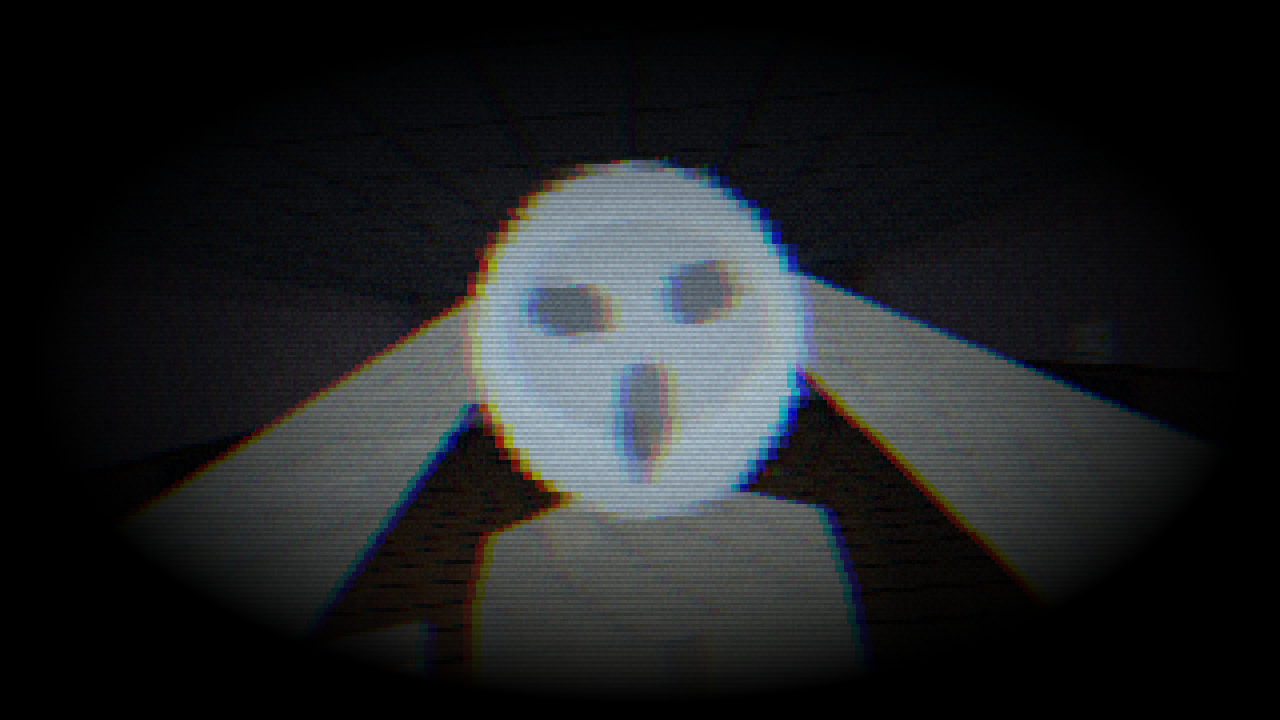
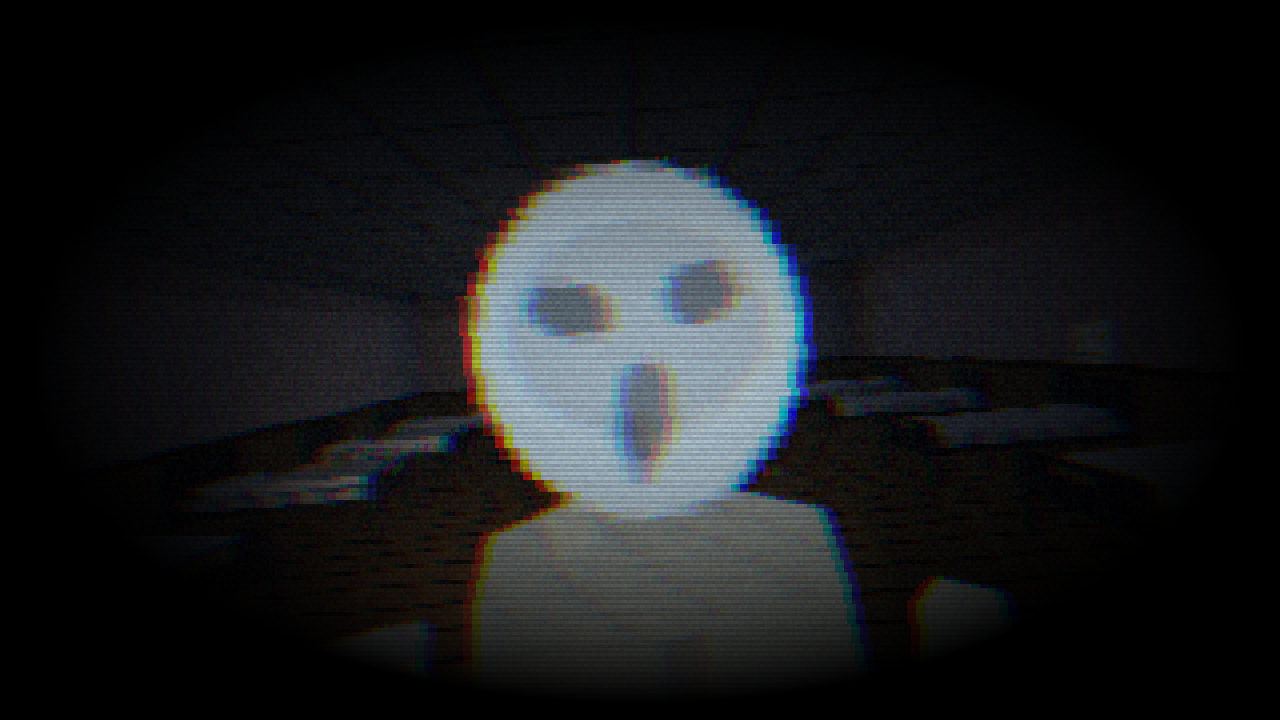
Collapse jump scare when a vision is near (0.1.61)
Claude-Session: https://claude.ai/code/session_01Kt2ajWcwzg7QhP3mDk3ZUu

Changed region(s): [[0.5938, 0.3667, 0.9062, 0.8861], [0.125, 0.3972, 0.4062, 0.8556]]

diff --git a/src/sanity/collapse.js b/src/sanity/collapse.js
@@ -2,13 +2,39 @@
 // falls, then the tape rewinds — tearing picture, "◀◀ REW", counter running
 // backwards — and the player wakes at the last checkpoint while a child
 // whispers what went wrong. Death is short and teaches (scare rules §7).
+// With a presence in view or close (game.presences: a vision now, enemies
+// later), it lunges into the face first (approved still collapse_scare).
+// The scare only goes with a collapse that is already happening; comfort
+// mode skips it.
+import * as THREE from 'three';
+import { PROPS } from '../props/catalog.js';
 
+const LUNGE = 0.45; // seconds
+const LUNGE_FROM = 1.3; // metres in front of the eyes
+const LUNGE_TO = 0.35;
+const FACE_HEIGHT = 1.1; // the lunge prop's face, above its origin
 const FAINT = 1.6; // seconds
 const REWIND = 3;
 const WHISPER = { dark: 'whisper.rewind.dark', default: 'whisper.rewind.dark' };
 
+// True when any registered presence is on screen or within a few metres.
+function presenceNear(game) {
+  const camera = game.world.camera;
+  camera.updateMatrixWorld();
+  const frustum = new THREE.Frustum().setFromProjectionMatrix(
+    new THREE.Matrix4().multiplyMatrices(camera.projectionMatrix, camera.matrixWorldInverse),
+  );
+  return game.presences.some((source) => {
+    const position = source();
+    if (!position) return false;
+    const point = new THREE.Vector3(position.x, 1.1, position.z);
+    return frustum.containsPoint(point) || point.distanceTo(camera.position) < 4;
+  });
+}
+
 export function createCollapse(game) {
-  let phase = null; // null | 'faint' | 'rewind'
+  let phase = null; // null | 'lunge' | 'faint' | 'rewind'
+  let lunge = null;
   let t = 0;
   let cause = 'dark';
   let counterFrom = 0;
@@ -16,11 +42,39 @@ export function createCollapse(game) {
 
   function start(why) {
     if (phase) return;
-    phase = 'faint';
     t = 0;
     cause = why;
     counterFrom = game.session.playTime;
     game.inventory.setOpen(false);
+    const scare = !game.settings.get('comfortMode') && presenceNear(game);
+    if (scare) {
+      phase = 'lunge';
+      lunge = PROPS.ghostLunge(game.world.textures);
+      game.world.scene.add(lunge);
+      game.events.emit('collapse.scare', cause);
+      return;
+    }
+    phase = 'faint';
+    game.events.emit('collapse.started', cause);
+  }
+
+  // The child rushes from arm's length into the face, then the faint begins.
+  function updateLunge() {
+    const camera = game.world.camera;
+    const forward = new THREE.Vector3();
+    camera.getWorldDirection(forward);
+    forward.y = 0;
+    forward.normalize();
+    const k = Math.min(1, t / LUNGE);
+    const distance = LUNGE_FROM - (LUNGE_FROM - LUNGE_TO) * k * k;
+    lunge.position.set(camera.position.x + forward.x * distance, camera.position.y - FACE_HEIGHT, camera.position.z + forward.z * distance);
+    lunge.rotation.y = Math.atan2(-forward.x, -forward.z);
+    game.pipeline.fx.aberration = game.settings.get('reduceEffects') ? 1 : 2.5;
+    if (t < LUNGE) return;
+    lunge.parent?.remove(lunge);
+    lunge = null;
+    phase = 'faint';
+    t = 0;
     game.events.emit('collapse.started', cause);
   }
 
@@ -39,6 +93,7 @@ export function createCollapse(game) {
   function update(dt) {
     if (!phase) return;
     t += dt;
+    if (phase === 'lunge') return updateLunge();
     const fx = game.pipeline.fx;
     if (phase === 'faint') {
       fx.eyelid = Math.min(1, t / FAINT);
@@ -68,6 +123,7 @@ export function createCollapse(game) {
     applyCamera,
     active: () => phase !== null,
     rewinding: () => phase === 'rewind',
+    scaring: () => phase === 'lunge',
     // The tape counter runs backwards during the rewind.
     counter: () => Math.max(0, counterFrom - t * 400),
     rewinds: () => rewinds,

diff --git a/tests/sanity.spec.js b/tests/sanity.spec.js
@@ -147,3 +147,41 @@ test('the journal says how the player feels', async ({ page }) => {
   expect(lines[0]).toMatch(/^How I feel: calm/);
   expect(lines[1]).toMatch(/^How I feel: shaking/); // wraps inside the left page
 });
+
+// Collapse with a vision in view: the lunge first, then the usual faint.
+const collapseWith = (page, { vision, comfort = false }) => page.evaluate(({ vision, comfort }) => {
+  const g = window.__stAgnes;
+  g.settings.set('comfortMode', comfort);
+  g.loadLevel('orphanage_wing', 'landing');
+  const c = g.world.level.cellCenter(12, 10.5);
+  Object.assign(g.player.state.position, { x: c.x, z: c.z });
+  g.player.state.yaw = -Math.PI / 2; // down the corridor (+x)
+  g.player.state.pitch = 0;
+  g.advance(1 / 30);
+  g.world.camera.updateMatrixWorld();
+  if (vision) {
+    // A vision 6 m ahead, a little to the side (they vanish when stared at).
+    g.hallucinations.forceAt({ x: c.x + 6, z: c.z + 1.2 });
+  }
+  const events = [];
+  const stops = ['collapse.scare', 'collapse.started'].map((name) => g.events.on(name, () => events.push(name)));
+  g.sanity.set(0.01);
+  g.advance(0.2);
+  const scaring = g.collapse.scaring();
+  g.advance(0.6);
+  stops.forEach((stop) => stop());
+  g.advance(6); // let the faint and rewind finish
+  g.settings.set('comfortMode', false);
+  return { events, scaring };
+}, { vision, comfort });
+
+test('collapse with a vision in view: it lunges first (scare rules: only with a collapse already happening)', async ({ page }) => {
+  const result = await collapseWith(page, { vision: true });
+  expect(result.scaring).toBe(true);
+  expect(result.events).toEqual(['collapse.scare', 'collapse.started']);
+});
+
+test('collapse alone, or in comfort mode, is the plain faint', async ({ page }) => {
+  expect((await collapseWith(page, { vision: false })).events).toEqual(['collapse.started']);
+  expect((await collapseWith(page, { vision: true, comfort: true })).events).toEqual(['collapse.started']);
+});

diff --git a/src/props/catalog.js b/src/props/catalog.js
@@ -100,9 +100,12 @@ function ghostLunge(t, { opacity = 0.85 } = {}) {
   const head = new THREE.Mesh(new THREE.SphereGeometry(0.12, 8, 6), materialFor(t.sheet, ghost));
   head.position.y = 1.1;
   const face = plane(smudgeFaceTexture(), [0.2, 0.2], [0, 1.1, 0.11], { ...ghost, opacity: Math.min(1, opacity + 0.1) });
-  const arms = [-0.15, 0.15].map((x) => {
-    const arm = box(t.sheet, [0.05, 0.45, 0.05], [x, 0.85, 0.05], ghost);
-    arm.rotation.x = -1.3; // reaching out
+  // Short arms low at the sides, hands coming up at the lower edges of view
+  // (long ones read as beams from the eyes).
+  const arms = [-0.2, 0.2].map((x) => {
+    const arm = box(t.sheet, [0.05, 0.26, 0.05], [x, 0.66, 0.06], ghost);
+    arm.rotation.x = -0.9;
+    arm.rotation.z = x > 0 ? -0.35 : 0.35;
     return arm;
   });
   return group(gown, head, face, ...arms);

diff --git a/src/main.js b/src/main.js
@@ -76,10 +76,13 @@ function createGame() {
   game.sanity = createSanity(game);
   game.subtitles = createSubtitles(game);
   game.hallucinations = createHallucinations(game);
+  // Things that make a collapse a jump scare when near (enemies add theirs).
+  game.presences = [() => game.hallucinations.active()?.position ?? null];
   game.collapse = createCollapse(game);
   game.intro = createIntro(game);
   game.ghosts = createGhostDirector(game);
   game.events.on('sanity.empty', (cause) => game.collapse.start(cause));
+  game.events.on('collapse.scare', () => game.hallucinations.remove());
   game.events.on('level.loaded', () => {
     game.hallucinations.remove();
     game.ghosts.reset();

diff --git a/src/sanity/hallucinations.js b/src/sanity/hallucinations.js
@@ -77,5 +77,15 @@ export function createHallucinations(game) {
     nextIn = spawn(camera) === false ? 1 : (10 + Math.random() * 15) * comfort * (0.5 + sanity / START_BELOW);
   }
 
-  return { update, remove, active: () => ghost, shown: () => shown };
+  // Tests and scripted beats: put a vision at a spot now.
+  function forceAt(spot) {
+    remove();
+    ghost = PROPS.ghostChild(game.world.textures, { opacity: 0.35 });
+    ghost.position.set(spot.x, 0, spot.z);
+    ghost.userData = { age: 0, life: 4, fake: true };
+    game.world.levelGroup.add(ghost);
+    return ghost;
+  }
+
+  return { update, remove, forceAt, active: () => ghost, shown: () => shown };
 }

diff --git a/src/audio/gameAudio.js b/src/audio/gameAudio.js
@@ -51,6 +51,7 @@ export function createGameAudio(game) {
   events.on('game.play', () => play('vhs_insert', { volume: 0.8, pitchJitter: 0 }));
   events.on('collapse.rewinding', () => play('vhs_rewind', { volume: 0.9, pitchJitter: 0 }));
   events.on('collapse.started', () => play('wake_gasp', { volume: 0.7 }));
+  events.on('collapse.scare', () => play('mus_stinger', { volume: 1, bus: 'music', pitchJitter: 0 }));
   events.on('game.saved', () => play('vhs_eject', { volume: 0.7, pitchJitter: 0 }));
   events.on('level.leaving', () => play('door_use', { volume: 0.9 }));
   events.on('plate.taken', () => play('key_pickup', { volume: 0.6 }));

diff --git a/CHANGELOG.md b/CHANGELOG.md
@@ -2,6 +2,7 @@
 
 Newest first. One line per change.
 
+- 0.1.61 — Collapse jump scare (approved still collapse_scare, owner pick c): when sanity hits zero with a vision on screen or within 4 m, the smudge-faced child lunges into the face for 0.45 s with a stinger, then the usual faint and rewind. Alone, or in comfort mode, the plain collapse. Later enemies plug into the same check (game.presences). Shorter, lower arms on the lunging child (they read as beams from the eyes). Scare rules updated.
 - 0.1.60 — Mockup still collapse_scare (for owner approval): when sanity hits zero with a presence near, a ghost child with a smudged, featureless face lunges into view before the faint and rewind. Not in the game yet.
 - 0.1.59 — Owner request: "Crouch toggle" in Setup → Controls (press once to crouch, again to stand), because Ctrl+W closes browser tabs. Settings format 2: older settings get it off. Fake children that find no open spot look again after a second instead of waiting 10–25 s (fixes a flaky test).
 - 0.1.58 — Owner pick (a): the quiet-room notes no longer come from the office clock (it read as the 3:00 secret room). When the toys unbolt the west dorm, Tommy appears by its door, whispers "She puts him behind the wall when he cries. Rose knows." and leads the player in; the scribble note and the riddle lie on Rose's bed. The clock now only tells the real time. Bot route updated.

diff --git a/.claude/skills/st-agnes-scare-rules/SKILL.md b/.claude/skills/st-agnes-scare-rules/SKILL.md
@@ -58,6 +58,11 @@ reduces health.
   few seconds, and respect reduce-effects.
 
 ## 7. Death is short and teaches
+Collapse with a presence near (owner decision 2026-10-12, still collapse_scare): if a sanity vision
+(later: any enemy registered in `game.presences`) is on screen or within 4 m when sanity hits zero,
+it lunges into the face for 0.45 s with a stinger before the faint. It never causes the collapse;
+comfort mode skips it. Real ghost children (Tommy included) never do this.
+
 Kill animation (1–2 s) → VHS rewind to the checkpoint → a ghost child whispers what killed you
 (subtitled). The player should know which rule they broke.
 
